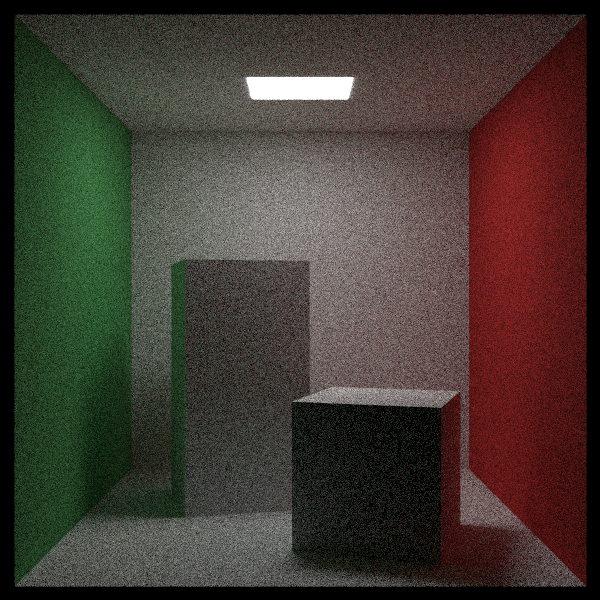
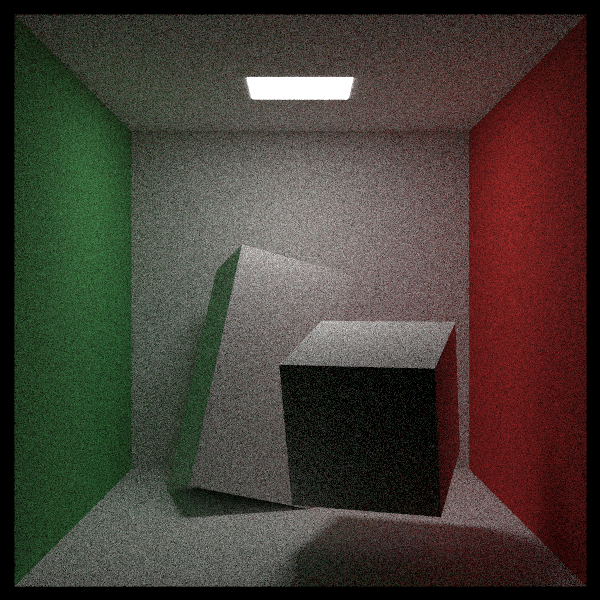
Cornell scene with XYZ-rotated boxes

diff --git a/hittable.h b/hittable.h
@@ -78,7 +78,7 @@ private:
     aabb bbox;
 };
 
-// 绕 Y 轴逆时针旋转 -θ
+
 /*
  * 点 (x, y, z) 绕 Z 轴旋转时，z 不变，只需求 (x', y')
  * 假设逆时针旋转 θ，(x, y) 与 x 轴夹角为 α，则 (x', y') 与 x 轴夹角为 θ + α
@@ -97,12 +97,13 @@ private:
  * 得 y' = cos(θ)y - sin(θ)z，
  *    z' = sin(θ)y + cos(θ)z
  */
+// 绕 Y 轴逆时针旋转 θ
 class rotate_y : public hittable {
 public:
-    __device__ rotate_y(hittable *object, float angle) : object(object) {
+    __device__ rotate_y(hittable* object, float angle) : object(object) {
         auto radians = degrees_to_radians(angle);
-        sin_theta = std::sinf(radians);
-        cos_theta = std::cosf(radians);
+        sin_theta = sinf(radians);
+        cos_theta = cosf(radians);
         bbox = object->bounding_box();
 
         // 新的外围盒的最小坐标值与最大坐标值，即左下角和右上角
@@ -119,11 +120,7 @@ public:
 
                     // 算出当前顶点的新的 x, z 坐标值
                     // bbox 逆时针旋转 θ
-                    auto newx = cos_theta * x + sin_theta * z;
-                    auto newz = -sin_theta * x + cos_theta * z;
-
-                    vec3 tester(newx, y, newz);
-
+                    vec3 tester = rotate_vec_counter_clockwise(vec3(x, y, z));
                     for (int c = 0; c < 3; c++) {
                         min[c] = fminf(min[c], tester[c]);
                         max[c] = fmaxf(min[c], tester[c]);
@@ -136,15 +133,9 @@ public:
 
     __device__ bool hit(const ray &r, interval ray_t, hit_record &rec) const override {
         // Transform the ray from world space to object space
-        // 光线逆时针旋转 -θ
-        auto origin = point3(cos_theta * r.origin().x() - sin_theta * r.origin().z(),
-                             r.origin().y(),
-                             sin_theta * r.origin().x() + cos_theta * r.origin().z());
-
-        auto direction = vec3(cos_theta * r.direction().x() - sin_theta * r.direction().z(),
-                              r.direction().y(),
-                              sin_theta * r.direction().x() + cos_theta * r.direction().z());
-
+        // 光线顺时针旋转 θ
+        point3 origin = rotate_vec_clockwise(r.origin());
+        auto direction = rotate_vec_clockwise(r.direction());
         ray rotated_r(origin, direction, r.time());
 
         // Determine whether an intersection exists in objects in object space (and if so, where).
@@ -153,14 +144,9 @@ public:
 
         // Transform the intersection from object space back to world space.
         // 逆时针旋转 θ
-        rec.p = point3(cos_theta * rec.p.x() + sin_theta * rec.p.z(),
-                       rec.p.y(),
-                       -sin_theta * rec.p.x() + cos_theta * rec.p.z());
-
+        rec.p = rotate_vec_counter_clockwise(rec.p);
         // 法线也需要旋转回去
-        rec.normal = vec3(cos_theta * rec.normal.x() + sin_theta * rec.normal.z(),
-                          rec.normal.y(),
-                          -sin_theta * rec.normal.x() + cos_theta * rec.normal.z());
+        rec.normal = rotate_vec_counter_clockwise(rec.normal);
 
         return true;
     }
@@ -168,10 +154,160 @@ public:
     __device__ aabb bounding_box() const override { return bbox; }
 
 private:
-    hittable *object;
+    hittable* object;
     float sin_theta;
     float cos_theta;
     aabb bbox;
+
+    // 逆时针
+    __device__ vec3 rotate_vec_counter_clockwise(vec3 v) const {
+        auto vec_x = cos_theta * v.x() + sin_theta * v.z();
+        auto vec_z = -sin_theta * v.x() + cos_theta * v.z();
+        return vec3(vec_x, v.y(), vec_z);
+    }
+
+    // 顺时针
+    __device__ vec3 rotate_vec_clockwise(vec3 v) const {
+        auto vec_x = cos_theta * v.x() - sin_theta * v.z();
+        auto vec_z = sin_theta * v.x() + cos_theta * v.z();
+        return vec3(vec_x, v.y(), vec_z);
+    }
+};
+
+// 按顺序绕 x, y, z 轴逆时针旋转 α, β, γ 度（注意绕轴顺序不同得到的结果大部分情况是不同的！）
+// https://blog.csdn.net/shenquanyue/article/details/103262512
+/*
+ * 首先绕 X 轴逆时针旋转 α 度
+ * x' = x
+ * y' = cos(α)y - sin(α)z
+ * z' = sin(α)y + cos(α)z
+ *
+ * 接着绕 Y 轴逆时针旋转 β 度
+ * x'' = sin(β)z' + cos(β)x' = sin(β)sin(α)y + sin(β)cos(α)z + cos(β)x
+ * y'' = y' = cos(α)y - sin(α)z
+ * z'' = cos(β)z' - sin(β)x' = cos(β)sin(α)y + cos(β)cos(α)z - sin(β)x
+ *
+ * 最后绕 Z 轴逆时针旋转 γ 度
+ * x''' = cos(γ)x'' - sin(γ)y'' = cos(γ)sin(β)sin(α)y + cos(γ)sin(β)cos(α)z + cos(γ)cos(β)x - sin(γ)cos(α)y + sin(γ)sin(α)z
+ *                              = cos(β)cos(γ)x + (sin(α)sin(β)cos(γ) - sin(γ)cos(α))y + (sin(β)cos(α)cos(γ) + sin(α)sin(γ))z
+ * y''' = sin(γ)x'' + cos(γ)y'' = sin(γ)sin(β)sin(α)y + sin(γ)sin(β)cos(α)z + sin(γ)cos(β)x + cos(γ)cos(α)y - cos(γ)sin(α)z
+ *                              = sin(γ)cos(β)x + (sin(α)sin(β)sin(γ) + cos(α)cos(γ))y + (sin(β)sin(γ)cos(α) - sin(α)cos(γ))z
+ * z''' = z'' =  - sin(β)x + sin(α)cos(β)y + cos(α)cos(β)z
+ *
+ *
+ * 光线反向旋转同理，按顺序绕 z, y, x 轴顺时针旋转 γ, β, α 度
+ * x' = cos(γ)x + sin(γ)y
+ * y' = -sin(γ)x + cos(γ)y
+ * z' = z
+ *
+ * x'' = -sin(β)z' + cos(β)x' = -sin(β)z + cos(β)cos(γ)x + cos(β)sin(γ)y
+ * y'' = y' = -sin(γ)x + cos(γ)y
+ * z'' = cos(β)z' + sin(β)x' = cos(β)z + sin(β)cos(γ)x + sin(β)sin(γ)y
+ *
+ * x''' = x'' = cos(β)cos(γ)x + sin(γ)cos(β)y - sin(β)z
+ * y''' = cos(α)y'' + sin(α)z'' = -sin(γ)cos(α)x + cos(α)cos(γ)y + sin(α)cos(β)z + sin(α)sin(β)cos(γ)x + sin(α)sin(β)sin(γ)y
+ * 							    = (sin(α)sin(β)cos(γ) - sin(γ)cos(α))x + (sin(α)sin(β)sin(γ) + cos(α)cos(γ))y + sin(α)cos(β)z
+ * z''' = -sin(α)y'' + cos(α)z'' = sin(α)sin(γ)x - sin(α)cos(γ)y + cos(α)cos(β)z + sin(β)cos(α)cos(γ)x + sin(β)sin(γ)cos(α)y
+ * 							    = (sin(β)cos(α)cos(γ) + sin(α)sin(γ))x + (sin(β)sin(γ)cos(α) - sin(α)cos(γ))y + cos(α)cos(β)z
+ */
+class rotate_xyz : public hittable {
+public:
+    __device__ rotate_xyz(hittable* object, float alpha, float beta, float gamma) : object(object) {
+        auto alpha_radians = degrees_to_radians(alpha);
+        auto beta_radians = degrees_to_radians(beta);
+        auto gamma_radians = degrees_to_radians(gamma);
+        sin_alpha = sinf(alpha_radians);
+        cos_alpha = cosf(alpha_radians);
+        sin_beta = sinf(beta_radians);
+        cos_beta = cosf(beta_radians);
+        sin_gamma = sinf(gamma_radians);
+        cos_gamma = cosf(gamma_radians);
+        bbox = object->bounding_box();
+
+        // 新的外围盒的最小坐标值与最大坐标值，即左下角和右上角
+        point3 min(infinity, infinity, infinity);
+        point3 max(-infinity, -infinity, -infinity);
+
+        // 遍历被变换物体的包围盒的8个顶点
+        for (int i = 0; i < 2; i++) {
+            for (int j = 0; j < 2; j++) {
+                for (int k = 0; k < 2; k++) {
+                    auto x = i * bbox.x.max + (1 - i) * bbox.x.min;
+                    auto y = j * bbox.y.max + (1 - j) * bbox.y.min;
+                    auto z = k * bbox.z.max + (1 - k) * bbox.z.min;
+
+                    // 算出当前顶点的新的 x, y, z 坐标值
+                    // bbox 逆时针旋转 θ
+                    vec3 tester = rotate_vec_counter_clockwise(vec3(x, y, z));
+                    for (int c = 0; c < 3; c++) {
+                        min[c] = fminf(min[c], tester[c]);
+                        max[c] = fmaxf(min[c], tester[c]);
+                    }
+                }
+            }
+        }
+        bbox = aabb(min, max);
+    }
+
+    __device__ bool hit(const ray &r, interval ray_t, hit_record &rec) const override {
+        // Transform the ray from world space to object space
+        // 光线顺时针旋转 θ
+        point3 origin = rotate_vec_clockwise(r.origin());
+        auto direction = rotate_vec_clockwise(r.direction());
+        ray rotated_r(origin, direction, r.time());
+
+        // Determine whether an intersection exists in objects in object space (and if so, where).
+        if (!object->hit(rotated_r, ray_t, rec))
+            return false;
+
+        // Transform the intersection from object space back to world space.
+        // 逆时针旋转 θ
+        rec.p = rotate_vec_counter_clockwise(rec.p);
+        // 法线也需要旋转回去
+        rec.normal = rotate_vec_counter_clockwise(rec.normal);
+
+        return true;
+    }
+
+    __device__ aabb bounding_box() const override { return bbox; }
+
+private:
+    hittable* object;
+    float sin_alpha;
+    float cos_alpha;
+    float sin_beta;
+    float cos_beta;
+    float sin_gamma;
+    float cos_gamma;
+    aabb bbox;
+
+    // 逆时针
+    __device__ vec3 rotate_vec_counter_clockwise(vec3 v) const {
+        auto vec_x = cos_beta * cos_gamma * v.x() +
+                     (sin_alpha * sin_beta * cos_gamma - sin_gamma * cos_alpha) * v.y() +
+                     (sin_beta * cos_alpha * cos_gamma + sin_alpha * sin_gamma) * v.z();
+        auto vec_y = cos_beta * sin_gamma * v.x() +
+                     (cos_alpha * cos_gamma + sin_alpha * sin_beta * sin_gamma) * v.y() +
+                     (-sin_alpha * cos_gamma + sin_gamma * sin_beta * cos_alpha) * v.z();
+        auto vec_z = -sin_beta * v.x() +
+                     sin_alpha * cos_beta * v.y() +
+                     cos_alpha * cos_beta * v.z();
+        return vec3(vec_x, vec_y, vec_z);
+    }
+
+    // 顺时针
+    __device__ vec3 rotate_vec_clockwise(vec3 v) const {
+        auto vec_x = cos_beta * cos_gamma * v.x() +
+                     sin_gamma * cos_beta * v.y() -
+                     sin_beta * v.z();
+        auto vec_y = (sin_alpha * sin_beta * cos_gamma - sin_gamma * cos_alpha) * v.x() +
+                     (sin_alpha * sin_beta * sin_gamma + cos_alpha * cos_gamma) * v.y() +
+                     sin_alpha * cos_beta * v.z();
+        auto vec_z = (sin_beta * cos_alpha * cos_gamma + sin_alpha * sin_gamma) * v.x() +
+                     (sin_beta * sin_gamma * cos_alpha - sin_alpha * cos_gamma) * v.y() +
+                     cos_alpha * cos_beta * v.z();
+        return vec3(vec_x, vec_y, vec_z);
+    }
 };
 
 #endif // HITTABLE_H
